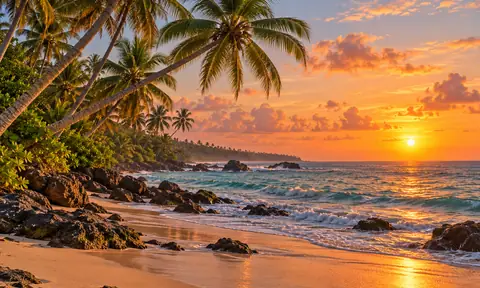
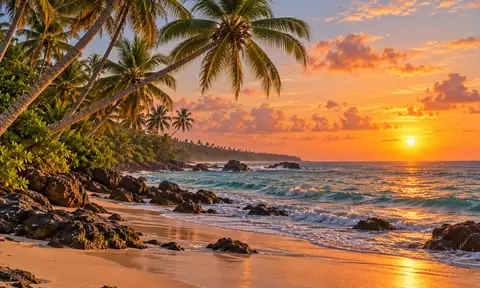
perf: optimize responsive photographic delivery

diff --git a/public/assets/majestic-sri-lanka/manifest.md b/public/assets/majestic-sri-lanka/manifest.md
@@ -1,6 +1,6 @@
 # Asset plan and provenance
 
-No individual original source assets were supplied. The full homepage reference is never used as a flattened page. Photography is generated as independent approximate recreations with the built-in image tool; it is not recovered original photography or a verified documentary record. Prompts and production dimensions are recorded in `public/assets/majestic-sri-lanka/manifest.json` after preparation.
+No individual original photographic assets were supplied. The full homepage reference is never used as a flattened page. Photography is generated as independent approximate recreations with the built-in image tool; it is not recovered original photography or a verified documentary record. Prompts and production dimensions are recorded in `public/assets/majestic-sri-lanka/manifest.json` after preparation.
 
 | Asset | Scene / placement | Intended aspect | Alpha | Source |
 |---|---|---|---|---|
@@ -25,8 +25,10 @@ No individual original source assets were supplied. The full homepage reference 
 | sticky-note-local | Ivory paper and annotation / story | square | yes around paper | authored SVG |
 | sticky-note-people | Ivory paper and annotation / why us | portrait | yes around paper | authored SVG |
 | handwritten-annotations | Independent travel annotation / hero | landscape | yes | authored SVG |
-| logo | Elephant symbol and Majestic Sri Lanka wordmark / shared | landscape | yes | authored approximate SVG |
+| logo | Elephant symbol and Majestic Sri Lanka wordmark / shared header and footer | landscape display frame | yes | user-supplied PNG; resized lossless WebP delivery |
 
-Additional portraits are deliberately illustrated monograms rather than fabricated client photographs. Original sample names/quotes from the supplied design are labelled illustrative in preview and excluded from structured data. Production photography has 240/480/720/960/1600px WebP variants where relevant, without enlarging source images. Responsive descriptors use actual dimensions from the generated manifest. Source PNGs remain in the archive. Organic silhouettes are application masks, documented in the CSS, not destroyed source backgrounds.
+The supplied logo is preserved unchanged at `assets/source/majestic-logo.png` (1254 × 1254, 252,041 bytes). Run `npm run assets:logo` to regenerate `public/assets/majestic-sri-lanka/branding/logo.webp` (436 × 436, 26,208 bytes), sized for twice the largest rendered width. WebP encoding is lossless after resizing; CSS frames the transparent margins without stretching the artwork. The earlier approximate `logo.svg` is no longer used by the site.
+
+Additional portraits are deliberately illustrated monograms rather than fabricated client photographs. Original sample names/quotes from the supplied design are labelled illustrative in preview and excluded from structured data. Production photography has 240/360/480/720/960/1600px WebP variants (84 files across 14 scenes) where relevant, without enlarging source images. Responsive descriptors use actual dimensions from the generated manifest. Source PNGs remain in the archive. Organic silhouettes are application masks, documented in the CSS, not destroyed source backgrounds.
 
 The delivery ZIP also contains the six self-hosted WOFF2 font files (static DM Sans 400/500/600, Cormorant Garamond 500 normal/italic and the Caveat decorative subset), their font/icon license notices and the generation/design documentation. Font files are build inputs, not claimed as original Majestic artwork. System-font fallbacks inside authored SVG notes are not redistributed.

diff --git a/docs/usability-improvements.md b/docs/usability-improvements.md
@@ -1,0 +1,28 @@
+# Usability fixes — 1 November 2026
+
+Completed after the browser review, retaining the approved forest green/bronze design, botanical artwork and paper notes.
+
+- Homepage categories now have explicit destinations. Wildlife, beaches and tea no longer depend on the unrelated order of the experience data array. General destinations opens the experience overview.
+- Experience actions pass stable interest IDs to the planner and land at its form. Only known checkbox IDs are selected; repeated interest parameters are supported, unknown values are ignored, and choices remain editable. Existing tour preselection remains supported.
+- The planner has a shorter mobile hero and an accessible, expandable process explanation. At 390px, its first input moved from 1,151px to 695px below the document top (rounded measurements).
+- Between 701 and 1000px, experience cards use 14px labels instead of 9px. Pictures/content stack, tour cards have adequate width, listing cards use two columns, and controls/benefits are more readable. Desktop composition above 1000px is retained.
+- Added 360px photographic variants and tuned small-image WebP quality from 70 to 60, always encoding from source PNGs. Large-image quality stays at 70. There are now 84 photographic variants across 14 scenes. The manifest records actual dimensions and bytes. `node scripts/prepare-assets.mjs --photography-only` reproduces photography without overwriting branding or decorative artwork.
+
+## Verification
+
+Type checking, lint, six unit tests, static build and SEO/asset validation passed. All **72 Playwright tests** passed against production output, including the three no-JavaScript tests, 21 accessibility scans, the new navigation/handoff regressions and seven-page 320px reflow. Tests ran in desktop, tablet and mobile Chrome configurations. Additional screenshots were inspected at 390, 701 and 1440px; width measurements also covered 768 and 1024px.
+
+Two single-run mobile Lighthouse audits of production output:
+
+| Measurement | Before | After |
+|---|---:|---:|
+| Total transfer | 1,051,586 bytes | 872,789 bytes |
+| Performance | 98 | 96 |
+| Accessibility / best practices / SEO | 100 / 100 / 100 | 100 / 100 / 100 |
+| LCP | 2.50s | 2.50s |
+| TBT | 0ms | 125ms |
+| CLS | 0.0014 | 0.0014 |
+
+Transferred bytes decreased by 178,797 (17%). Timing and score variation between single runs is not evidence of a reliable speed increase or regression. Estimated remaining image savings decreased from 445 KiB to 270 KiB. Crawlability was excluded because the preview remains intentionally noindex. Local screenshots, measurements and both audits are in ignored `.local/site-inspection/`.
+
+The user deferred contact verification, reviews, team photos and the homepage film. Those remain unchanged and are not claimed as complete. Existing archived asset ZIPs and historical handover measurements describe the earlier delivery, not this update. Real-device/Safari/Firefox testing and client acceptance remain pending. Nothing was deployed.

diff --git a/docs/image-asset-manifest.md b/docs/image-asset-manifest.md
@@ -29,6 +29,6 @@ No individual original photographic assets were supplied. The full homepage refe
 
 The supplied logo is preserved unchanged at `assets/source/majestic-logo.png` (1254 × 1254, 252,041 bytes). Run `npm run assets:logo` to regenerate `public/assets/majestic-sri-lanka/branding/logo.webp` (436 × 436, 26,208 bytes), sized for twice the largest rendered width. WebP encoding is lossless after resizing; CSS frames the transparent margins without stretching the artwork. The earlier approximate `logo.svg` is no longer used by the site.
 
-Additional portraits are deliberately illustrated monograms rather than fabricated client photographs. Original sample names/quotes from the supplied design are labelled illustrative in preview and excluded from structured data. Production photography has 240/480/720/960/1600px WebP variants where relevant, without enlarging source images. Responsive descriptors use actual dimensions from the generated manifest. Source PNGs remain in the archive. Organic silhouettes are application masks, documented in the CSS, not destroyed source backgrounds.
+Additional portraits are deliberately illustrated monograms rather than fabricated client photographs. Original sample names/quotes from the supplied design are labelled illustrative in preview and excluded from structured data. Production photography has 240/360/480/720/960/1600px WebP variants (84 files across 14 scenes) where relevant, without enlarging source images. Responsive descriptors use actual dimensions from the generated manifest. Source PNGs remain in the archive. Organic silhouettes are application masks, documented in the CSS, not destroyed source backgrounds.
 
 The delivery ZIP also contains the six self-hosted WOFF2 font files (static DM Sans 400/500/600, Cormorant Garamond 500 normal/italic and the Caveat decorative subset), their font/icon license notices and the generation/design documentation. Font files are build inputs, not claimed as original Majestic artwork. System-font fallbacks inside authored SVG notes are not redistributed.
